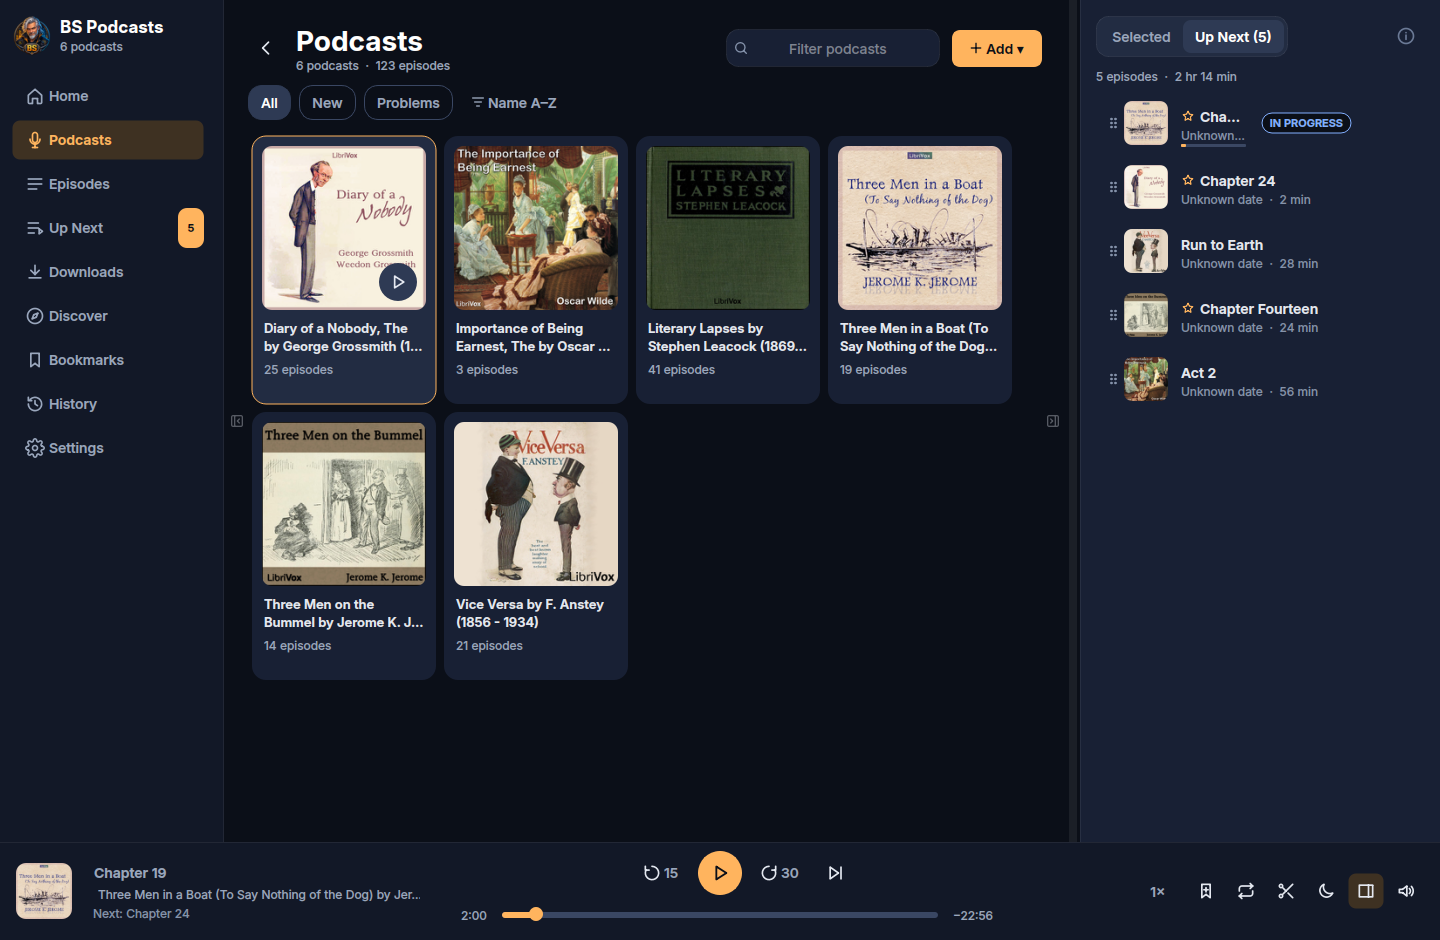
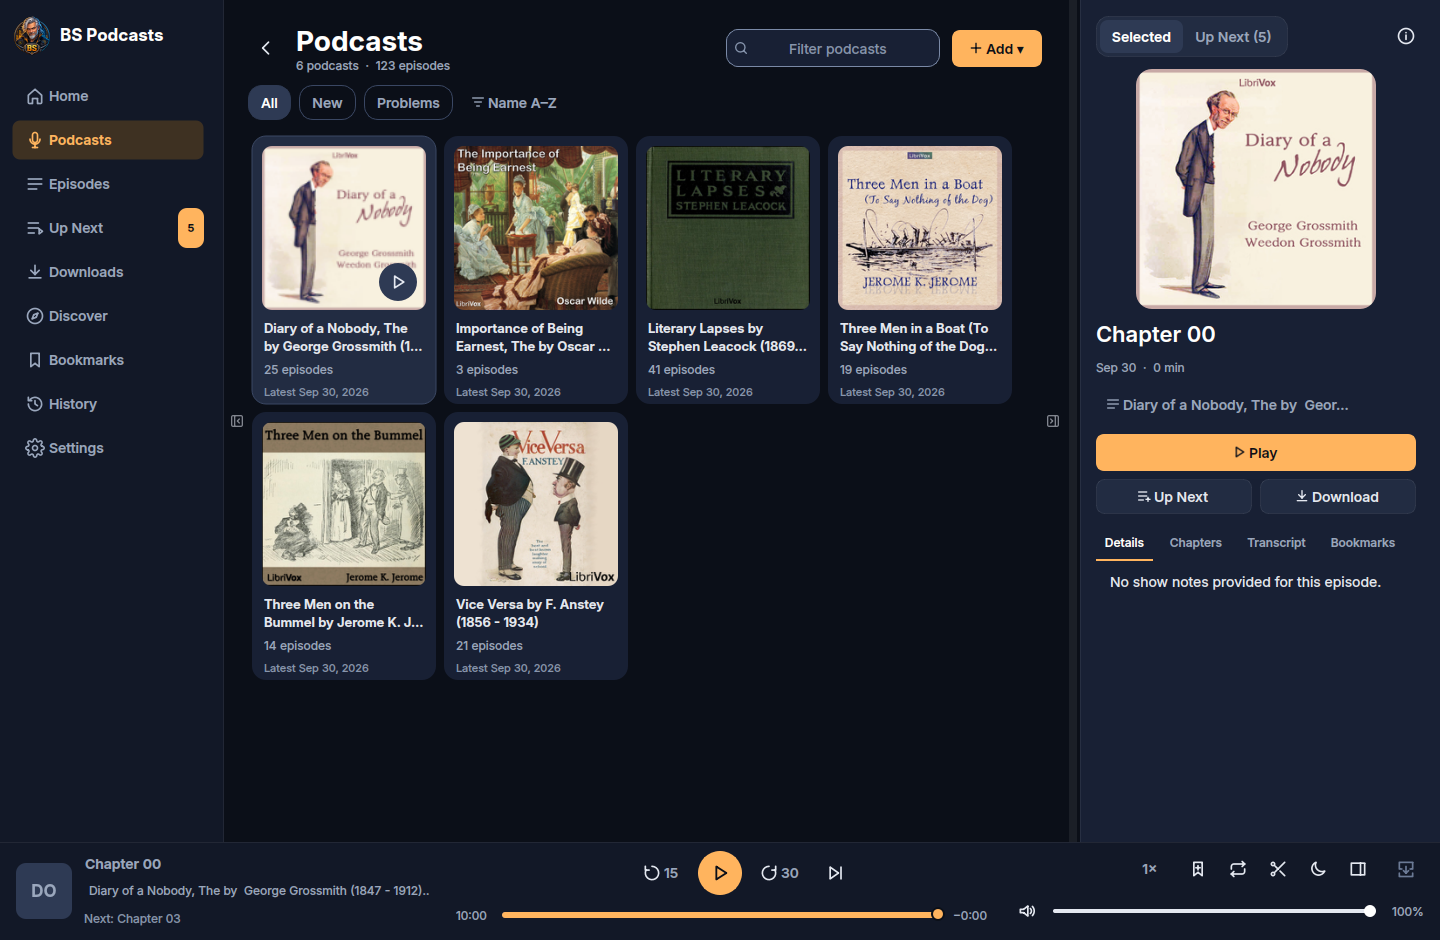
Recapture the README screenshots from the current build
Audit item(s): DP04, DQ04, DQ05 (all Low)

Both README images showed an older player bar and sidebar, and the
library image showed "Unknown date" on every Up Next row. They are
recaptured from the current build, headless, from an isolated fixture.
The fixture feeds carried their publication lines only as XML comments,
so no episode had a date; the capture now writes one real publication
time per item (newest 2026-09-30, three days apart). These are fixture
values, not the original publication dates.

The library image shows the podcast grid with the selected episode in
the details pane; the Up Next queue appears only as a tab and a sidebar
badge. The README alt text for that image now says what it shows.

The private capture tool and its provenance record (the hashes of both
images) live in the development tools, outside this repository.

Check (private harness): the capture check passes. It writes two
1440 by 940 images and confirms that every imported episode is dated.

diff --git a/README.md b/README.md
@@ -14,7 +14,7 @@ playback controls always within reach.
 
 Browse your shows while keeping the next episodes in view.
 
-![BS Podcasts showing the podcast library and Up Next queue](media/screenshots/library.png)
+![BS Podcasts showing the podcast library, the selected episode and the player bar](media/screenshots/library.png)
 
 ### Episodes, details and playback
 
